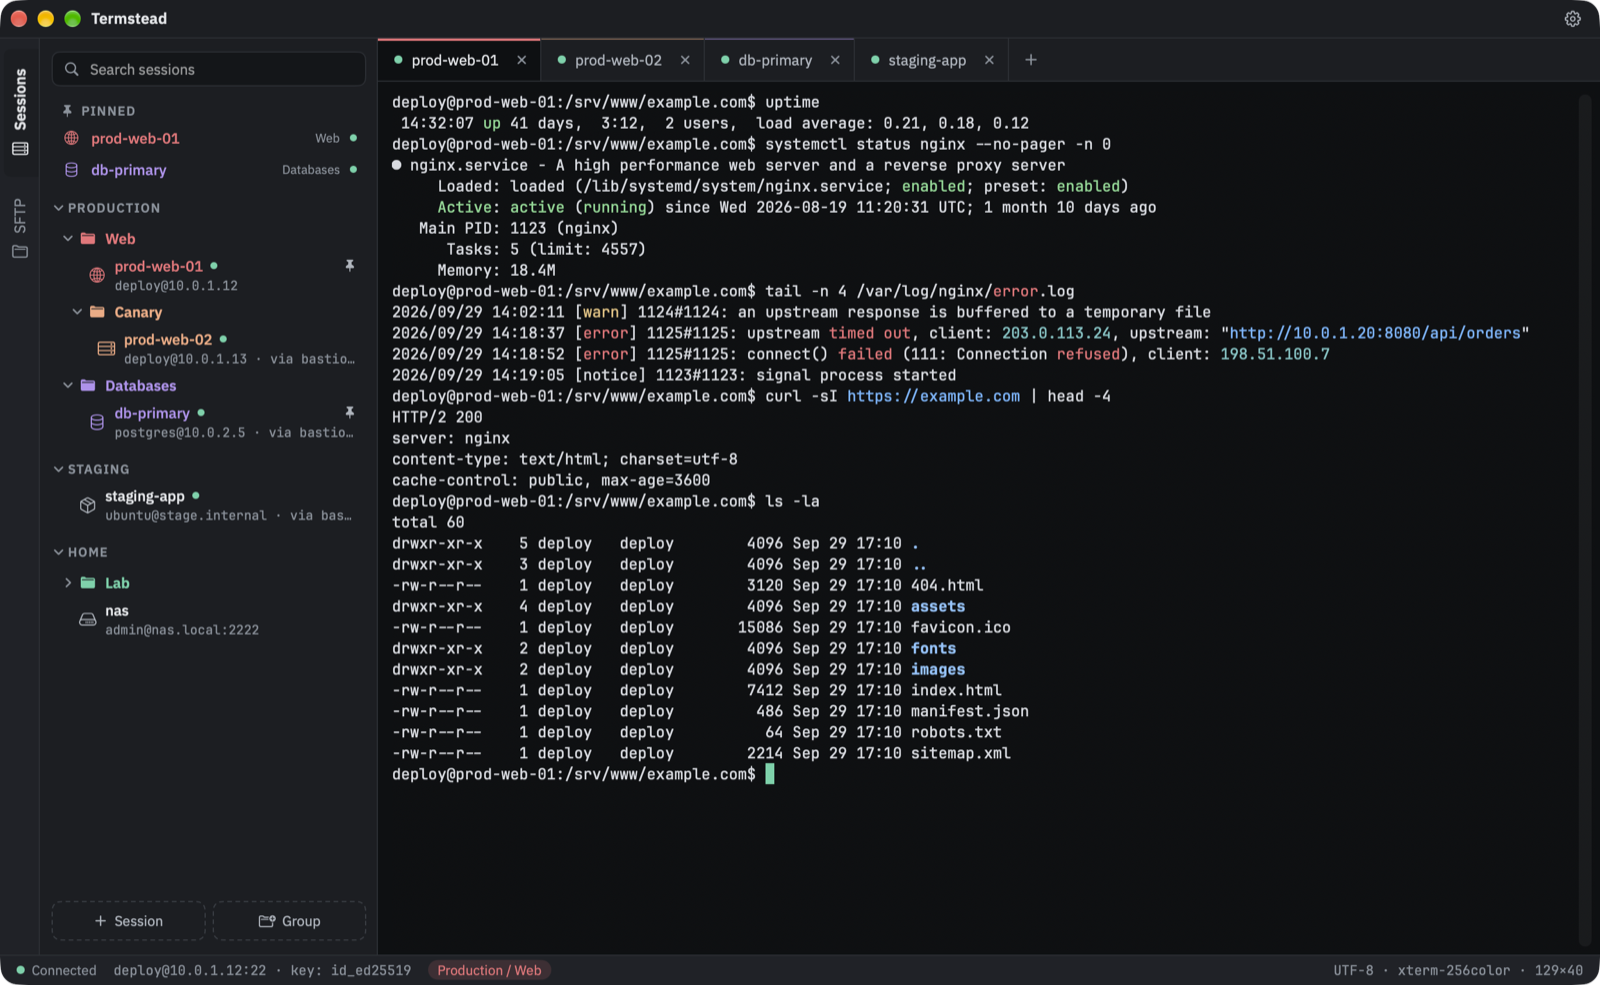
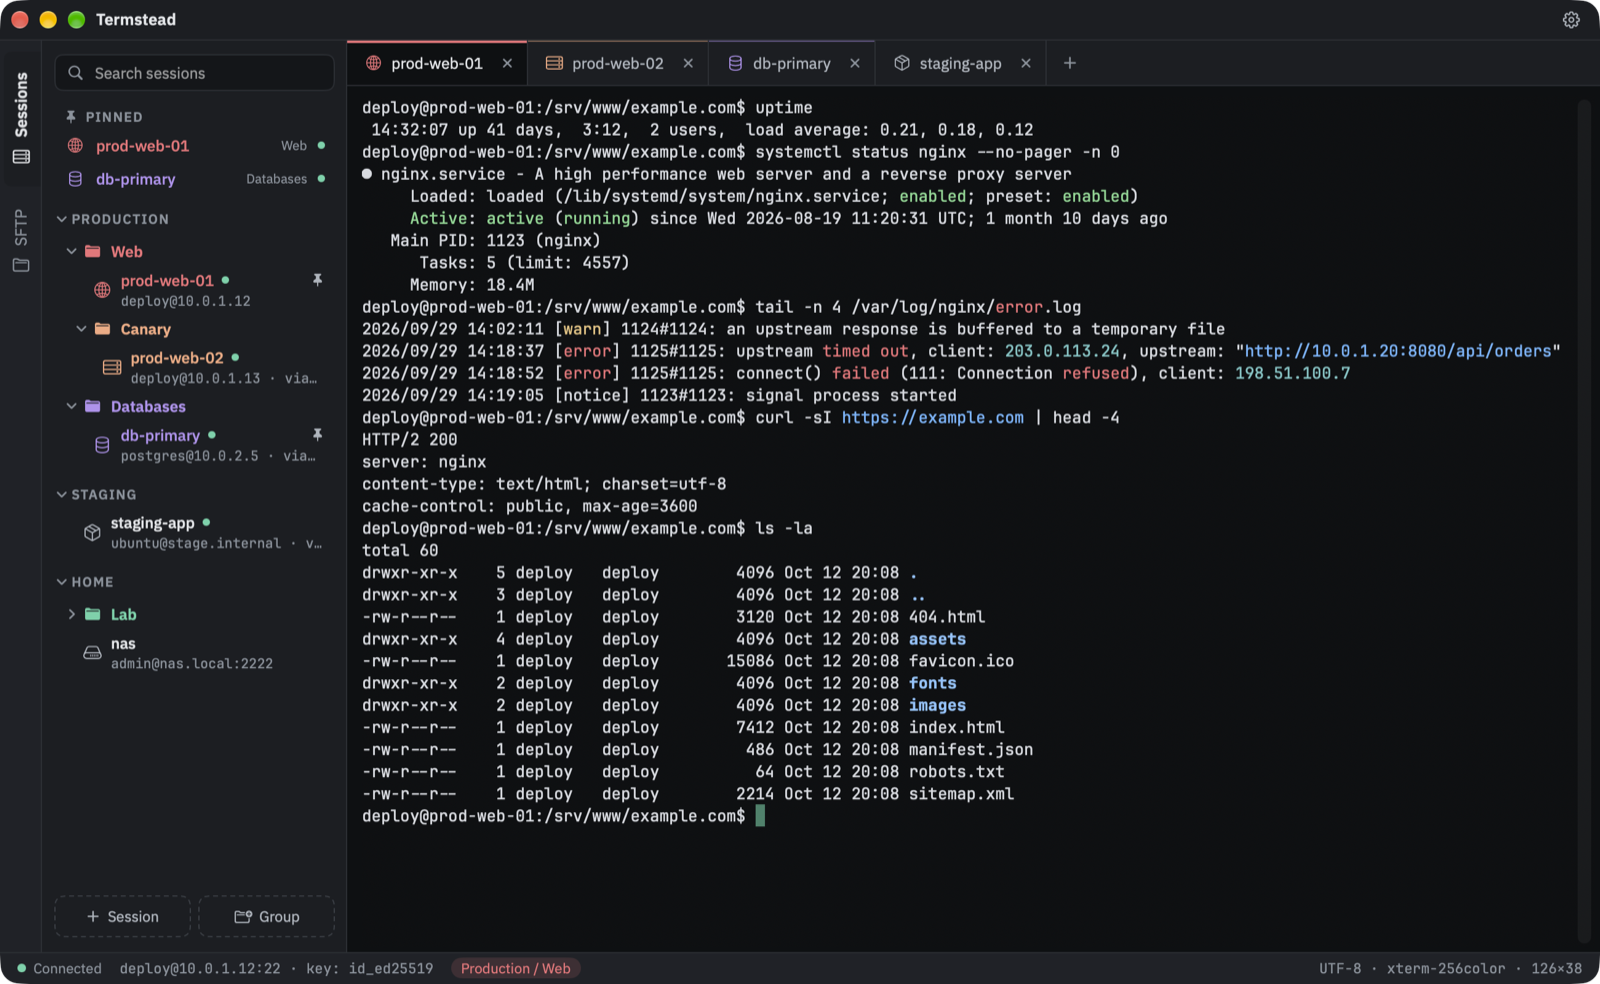
Show the new tabs in the README
Fresh main-window and SFTP screenshots, with session icons in the tabs, at
the earlier 1300×800 window so the long log line still fits. The session
form has not changed and keeps its picture.

diff --git a/README.md b/README.md
@@ -27,6 +27,9 @@
 - **Sessions in a tree.** Groups and subgroups, colors that the sessions inside
   take on, an icon per session, pinned favorites at the top, search, drag and
   drop to reorder.
+- **Tabs you can arrange.** Each carries its session's icon in its group's
+  color; drag tabs into any order, and when there are more than fit, the strip
+  scrolls with the mouse wheel.
 - **Jump hosts.** Chain as many as you need; a jump host can be a saved session,
   with its own user, key or password.
 - **Passwords and key passphrases in the Keychain**, entered for you when ssh
@@ -100,7 +103,7 @@ against the project's signing key before it is installed.
 | Settings | ⌘, |
 
 Double-click a session to connect. A closed tab keeps its output — press Return
-to reconnect.
+to reconnect. Drag a tab to move it; the middle mouse button closes it.
 
 ## Build from source
 
